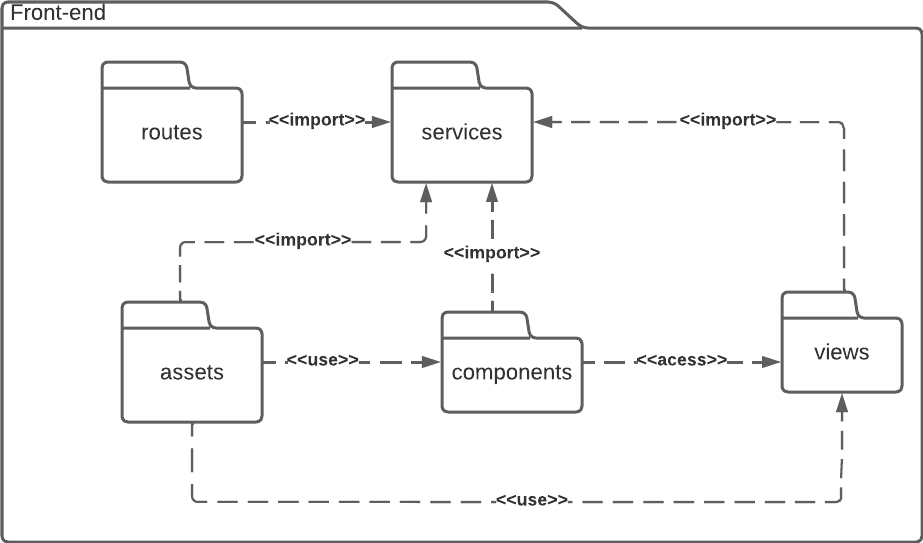
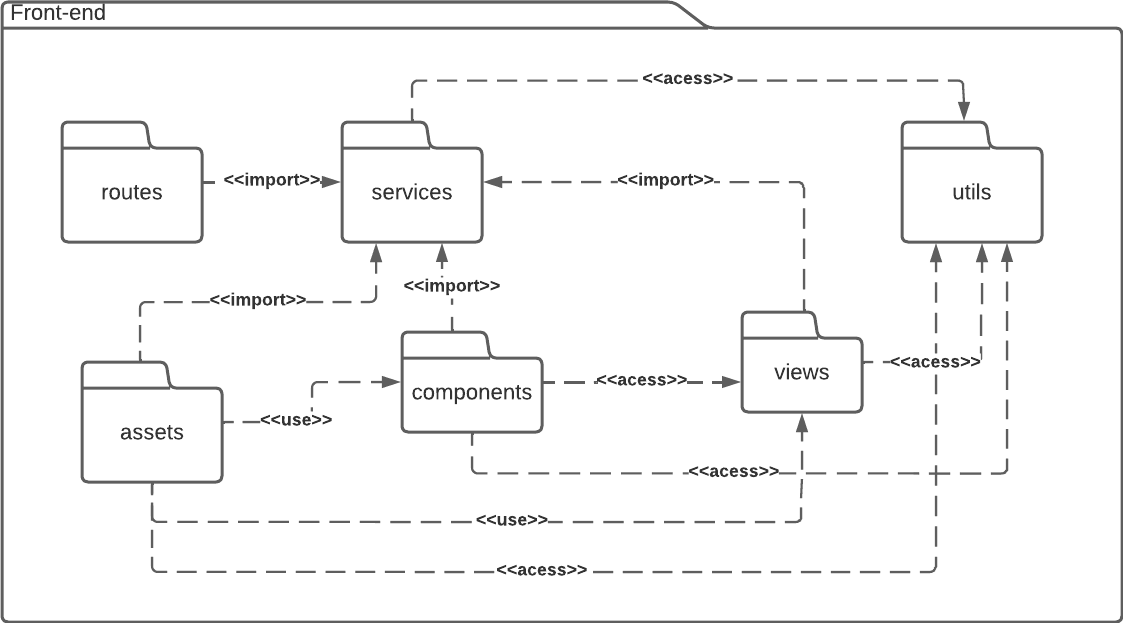
:pencil: (#28) alteração do diagrama de dront

diff --git a/docs/modelagem/diagramas_estaticos/diagrama_pacotes.md b/docs/modelagem/diagramas_estaticos/diagrama_pacotes.md
@@ -4,16 +4,16 @@
 Um diagrama de pacotes é um diagrama estático para mostrar, em uma forma de pacotes, a organização e disposição de vários elementos de modelos e simplificar os diagramas de classe complexos e organizar as classes em pacotes, permitindo assim, uma visão clara da estrutura hierárquica do sistema.
 Os elementos principais para a criação de um elemento são:  
 
-- Pacote: Este é uma definição usada para agrupar elementos relacionados dentro de um sistema.
-- Elemento empacotáveis:  pode ser renderizado, como um retângulo que pode ser rotulado com um nome adequado. Isso inclui eventos, componentes, casos de uso e pacotes.
-- Dependências: Esta é uma representação de como os elementos influenciam outros.
+- **Pacote**: Este é uma definição usada para agrupar elementos relacionados dentro de um sistema.
+- **Elemento empacotáveis**:  pode ser renderizado, como um retângulo que pode ser rotulado com um nome adequado. Isso inclui eventos, componentes, casos de uso e pacotes.
+- **Dependências**: Esta é uma representação de como os elementos influenciam outros.
 
-- Relacionamento: os relacionamentos representam como os pacotes vão se relacionar, sendo eles: 
-    - Acesso: Um pacote requer assistência das funções de outro pacote
-    - Importação: Um pacote importa funcionalidades de outro pacote
-    - Uso: Um pacote necessita de um determinado elemento de outro pacote para sua definição e implementação completa
-    - Abstração: Relacionamento entre dois pacotes que representam o mesmo conceito só que em níveis diferentes de abstração do sistema
-    - Disponibilização: Mostra a implementação de um artefato em um alvo de implementação
+- **Relacionamento**: os relacionamentos representam como os pacotes vão se relacionar, sendo eles: 
+    - Acesso: Um pacote requer assistência das funções de outro pacote
+    - Importação: Um pacote importa funcionalidades de outro pacote
+    - Uso: Um pacote necessita de um determinado elemento de outro pacote para sua definição e implementação completa
+    - Abstração: Relacionamento entre dois pacotes que representam o mesmo conceito só que em níveis diferentes de abstração do sistema
+    - Disponibilização: Mostra a implementação de um artefato em um alvo de implementação
 
 ## 2. Metodologia
     Após a definição e o entendimento do funcionamento dos diagramas de pacotes, foram feitos dois diagramas de pacotes, o primeiro voltado para a parte do backend feito com base na arquitetura do django rest, que será o framework usado para construirmos o backend da aplicação. Em seguida foi feito o diagrama de pacotes voltado para a arquitetura do reactJs que será o framework utilizado para o desenvolvimento do front end da aplicação.  
